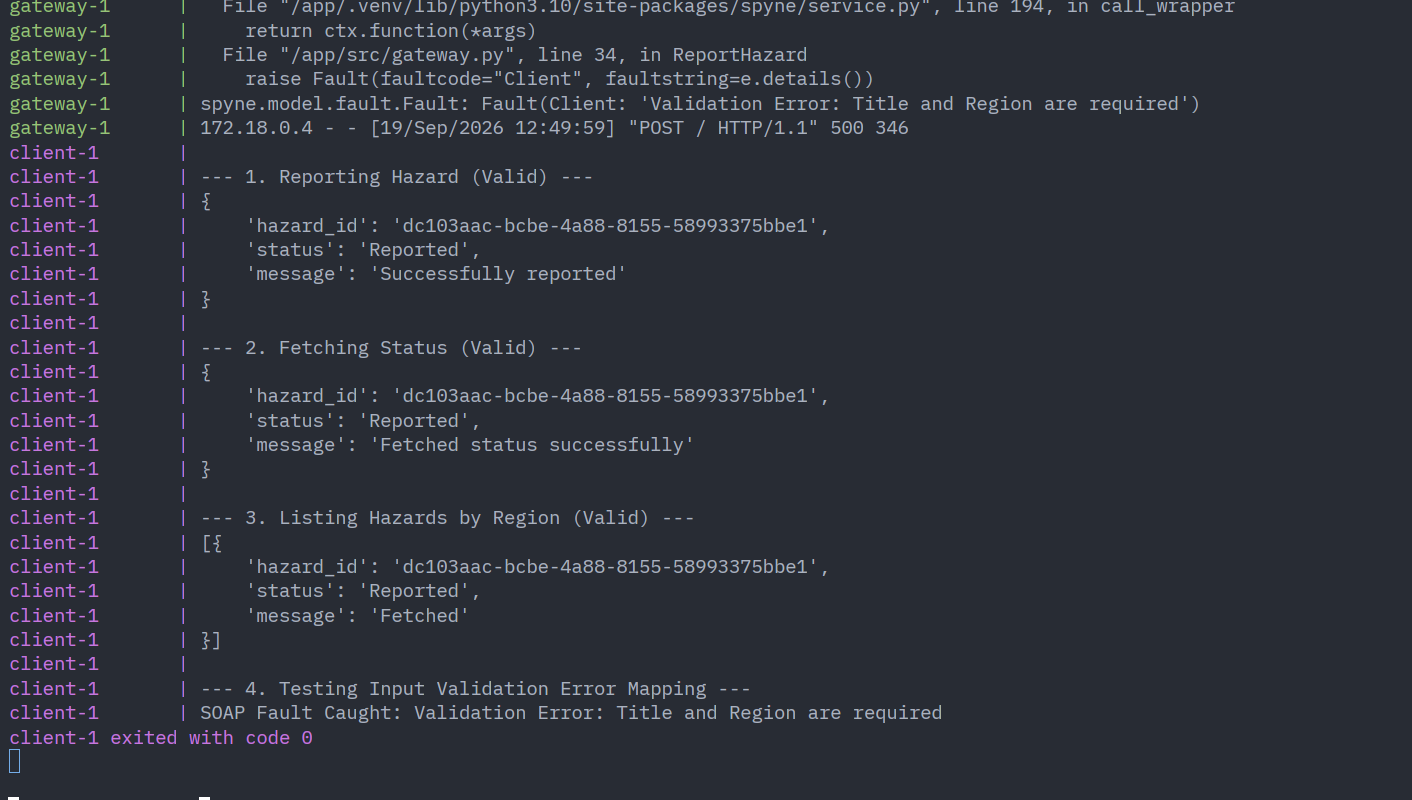
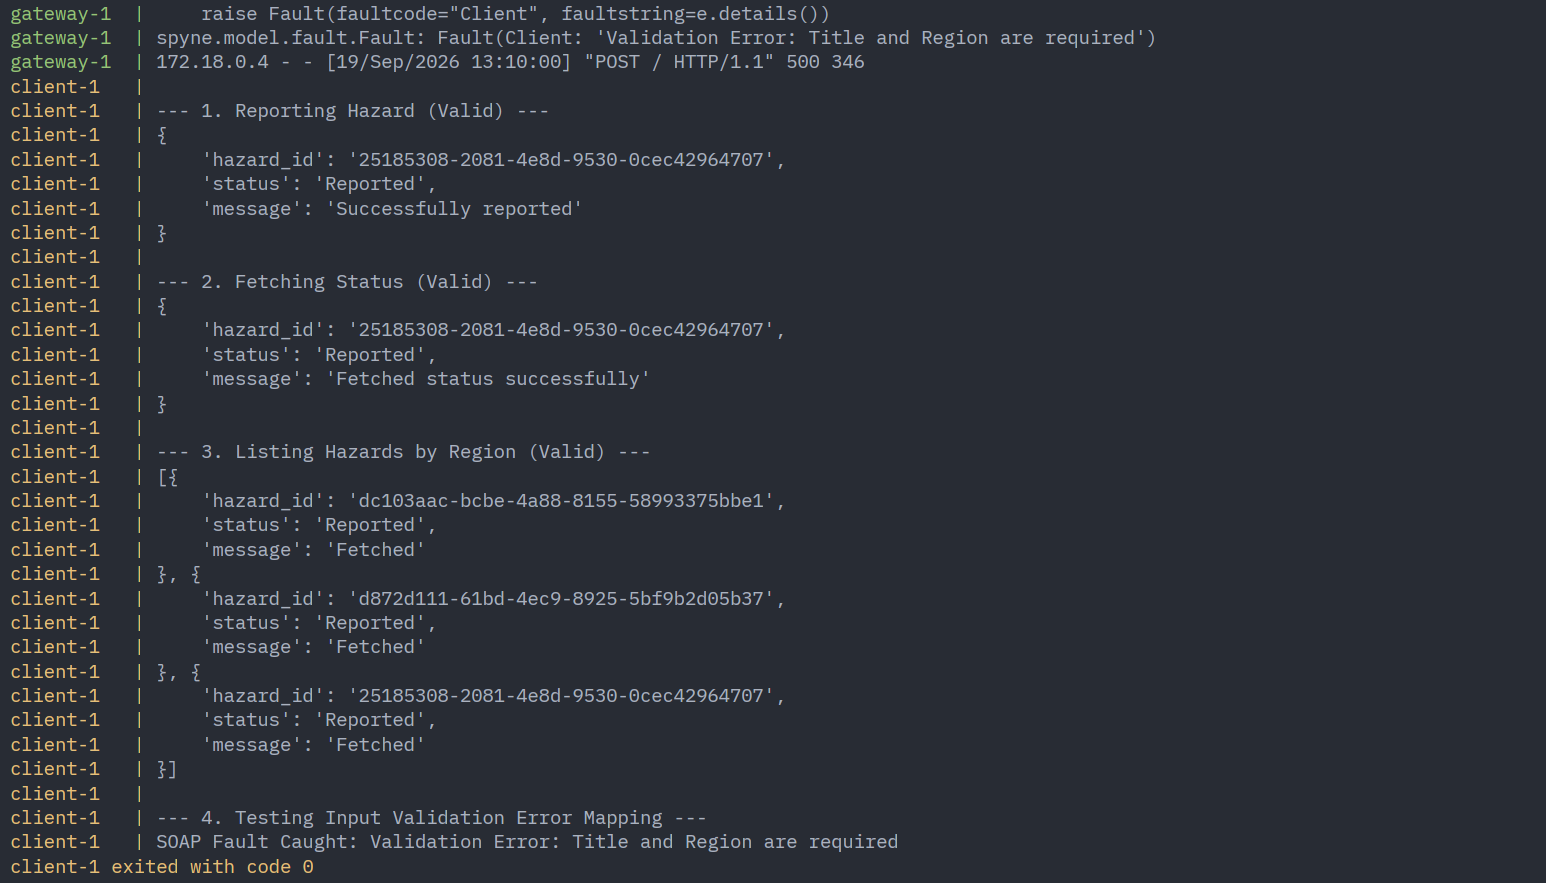
Updated readme

Changed region(s): [[0.0, 0.0, 0.8725, 1.0]]

diff --git a/README.md b/README.md
@@ -1,9 +1,17 @@
-# SOAP client
+# Civic Hazard Reporting System: SOAP-to-gRPC Gateway
 
-## Start server and gateway
+## Architecture & Critical Components
+
+*   **Protocol Buffers (`hazard/hazard.proto`)**: This defines the gRPC service contract, including the exact request and response schemas for all hazard operations.
+*   **Generated Stubs (`src/hazard/`)**: Contains the compiled Python code (`hazard_pb2.py` and `hazard_pb2_grpc.py`) generated from the proto file. The directory acts as an initialized Python module allowing the server and gateway to easily import the gRPC mechanics.
+*   **gRPC Backend Server (`src/server.py`)**: The modern backend running internally on port `50051`. It maintains the in-memory database and processes the core logic for the `ReportHazard`, `GetHazardStatus`, and `ListHazards` operations, enforcing strict input validation.
+*   **Translating Gateway (`src/gateway.py`)**: A Spyne-powered middleware web server running on port `8000`. It exposes a legacy SOAP 1.1 interface (`/?wsdl`), receives XML payloads, translates them into Protobuf messages, and routes them to the gRPC backend. It is also responsible for catching gRPC validation errors and mapping them to standard SOAP Faults.
+*   **Legacy SOAP Client (`src/client.py`)**: A testing script utilizing the `zeep` library to simulate an external legacy system interacting with the gateway. It executes sequentially to verify all API endpoints and error handling mechanisms.
+
+## Start server, gateway and client
 
 ```bash
-docker-compose up
+docker compose up
 ```
 
 Server and the gateway will be started as long running containers while the client will be run once and exit.
